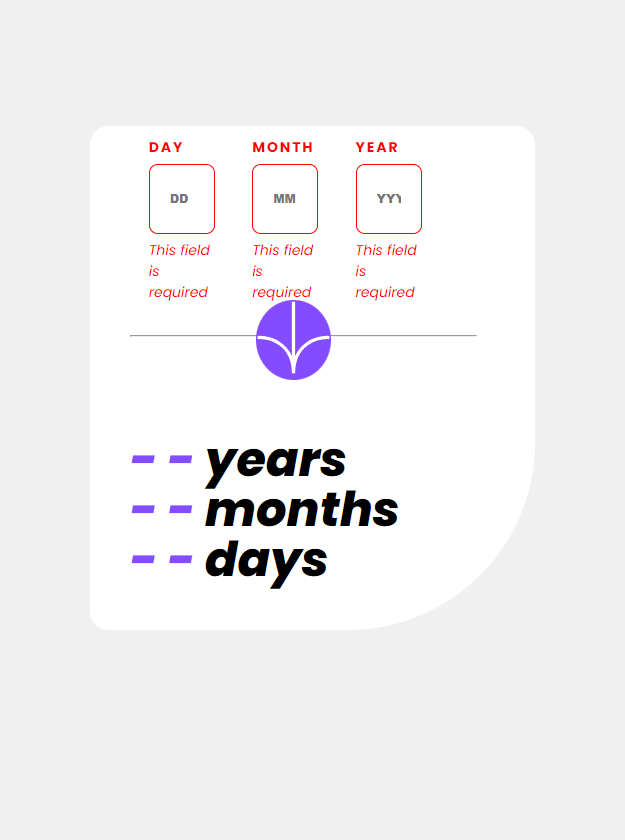
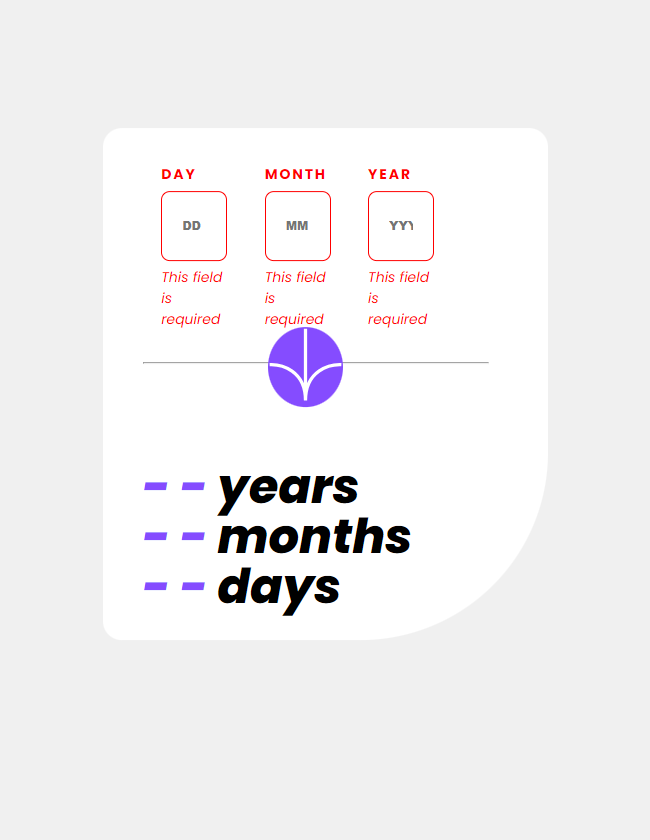
updated

Changed region(s): [[0.2128, 0.5262, 0.6384, 0.7429], [0.3952, 0.1548, 0.6688, 0.4952], [0.2432, 0.1548, 0.3648, 0.4024]]

diff --git a/style.css b/style.css
@@ -171,7 +171,7 @@ input[type=text]{
     margin-top: -220px;
 }
 .container {
-    height:60%;
+    height:61%;
 }
 input[type=text]{
     font-weight: 800;
@@ -188,7 +188,7 @@ input[type=text]{
     margin-top: -230px;
 }
 .container {
-    height:58%;
+    height:59%;
 }
 
 
@@ -210,7 +210,7 @@ input[type=text]{
 }
     .container{
 width: 80%;
-height:60%;
+height:61%;
     }
     
     
